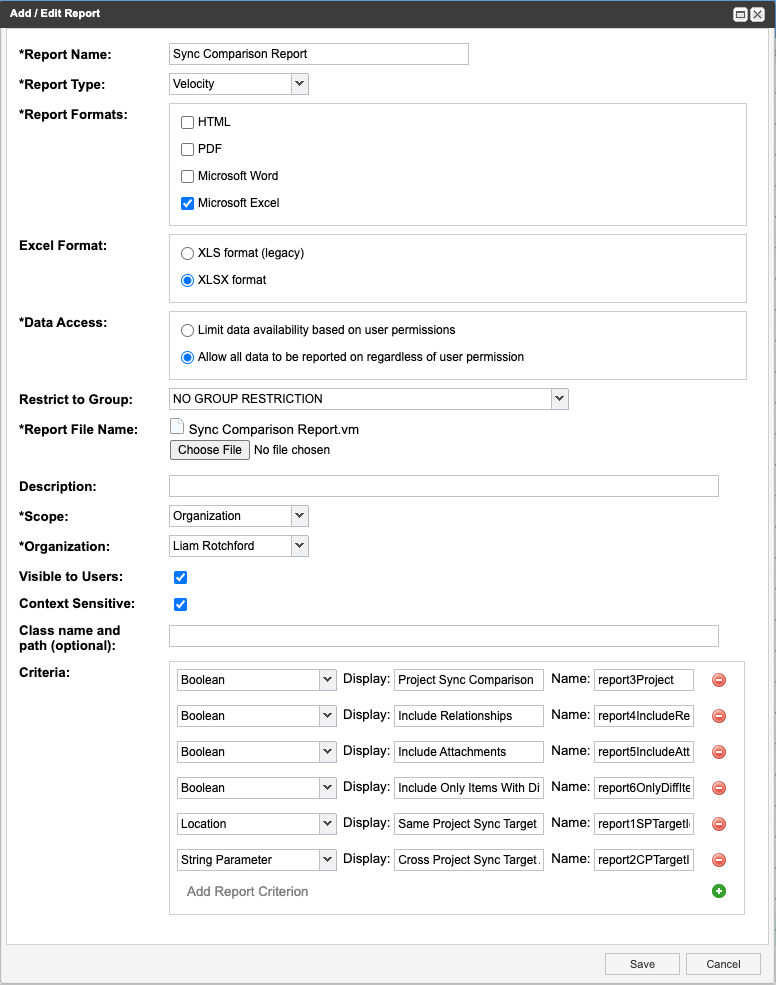
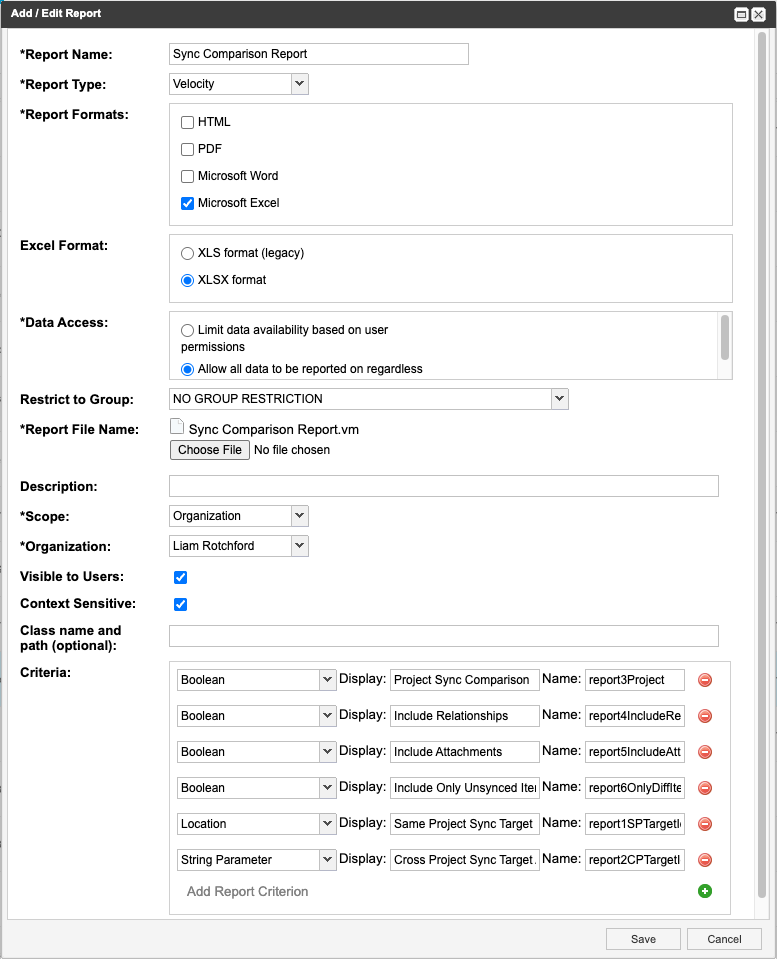
Jama Sync Comparison Report Update 2.2.1
- Updated 'Include Only Items With Differences' parameter label to adhear to Jama 30 character limit.
- Updated README.md
- Updated config1.png

Changed region(s): [[0.0, 0.0, 1.0, 0.9677], [0.0, 0.9677, 1.0, 1.0], [0.8969, 0.4838, 0.9278, 0.5141]]

diff --git a/Sync Reports/Sync Comparison Report/README.md b/Sync Reports/Sync Comparison Report/README.md
@@ -119,12 +119,12 @@ This report employs error handling in the following cases in which the generate 
 ### Report Criteria
 Ensure that no typos, leading, or trailing spaces are present in the *Name* field for the reports installation criteria.
 
-| Type          | Display                               | Name                       |
-| ------------- | ------------------------------------- | -------------------------- |
-| Location      | Same Project Sync Target              | report1SPTargetId          |
-| String        | Cross Project Sync Target API ID      | report2CPTargetId          |
-| Boolean       | Project Sync Comparison               | report3Project             |
-| Boolean       | Include Relationships                 | report4IncludeRels         |
-| Boolean       | Include Attachments                   | report5IncludeAttachments  |
-| Boolean       | Include Only Items With Differences   | report6OnlyDiffItems       |
+| Type          | Display                          | Name                       |
+| ------------- |----------------------------------| -------------------------- |
+| Location      | Same Project Sync Target         | report1SPTargetId          |
+| String        | Cross Project Sync Target API ID | report2CPTargetId          |
+| Boolean       | Project Sync Comparison          | report3Project             |
+| Boolean       | Include Relationships            | report4IncludeRels         |
+| Boolean       | Include Attachments              | report5IncludeAttachments  |
+| Boolean       | Include Only Unsynced Items      | report6OnlyDiffItems       |
 
